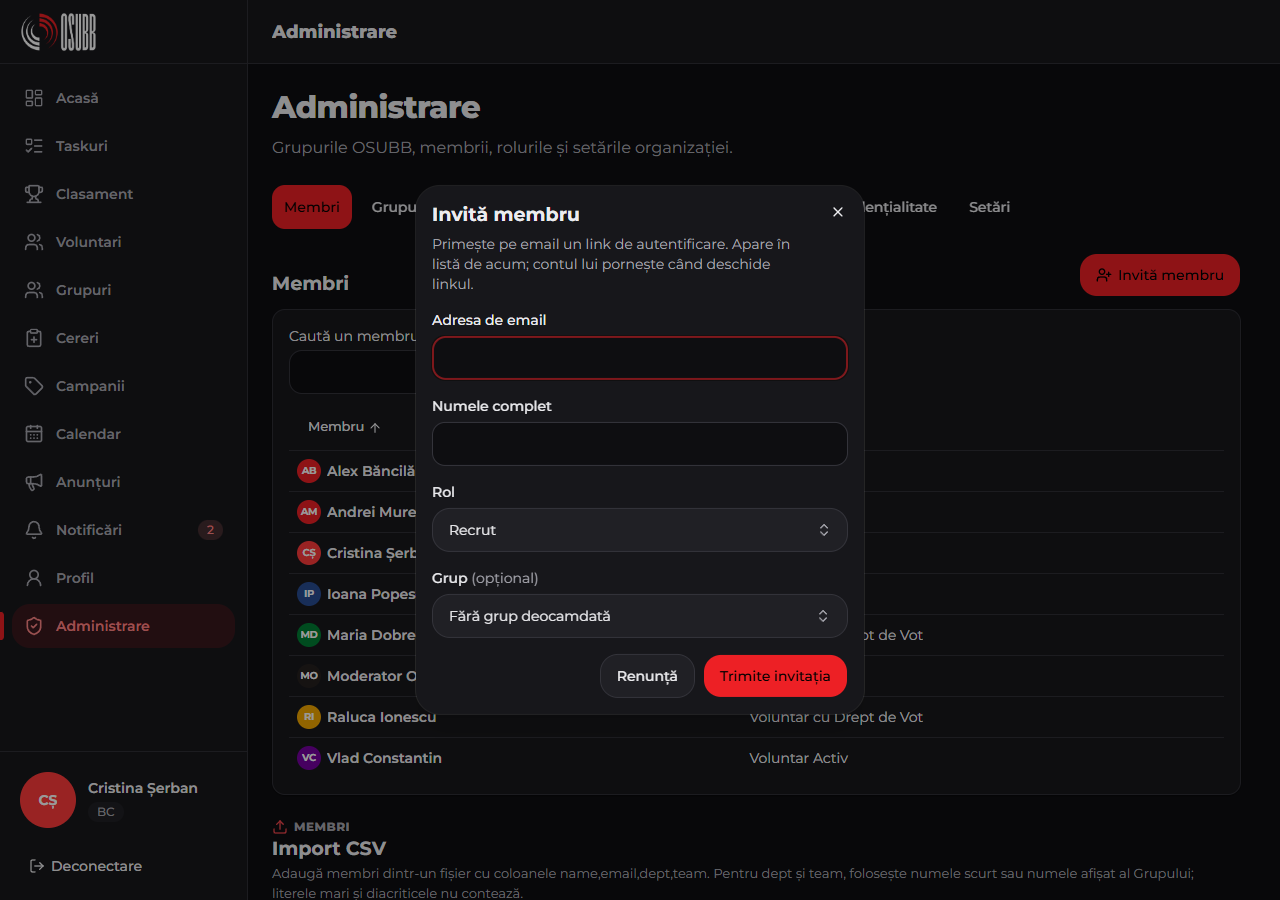
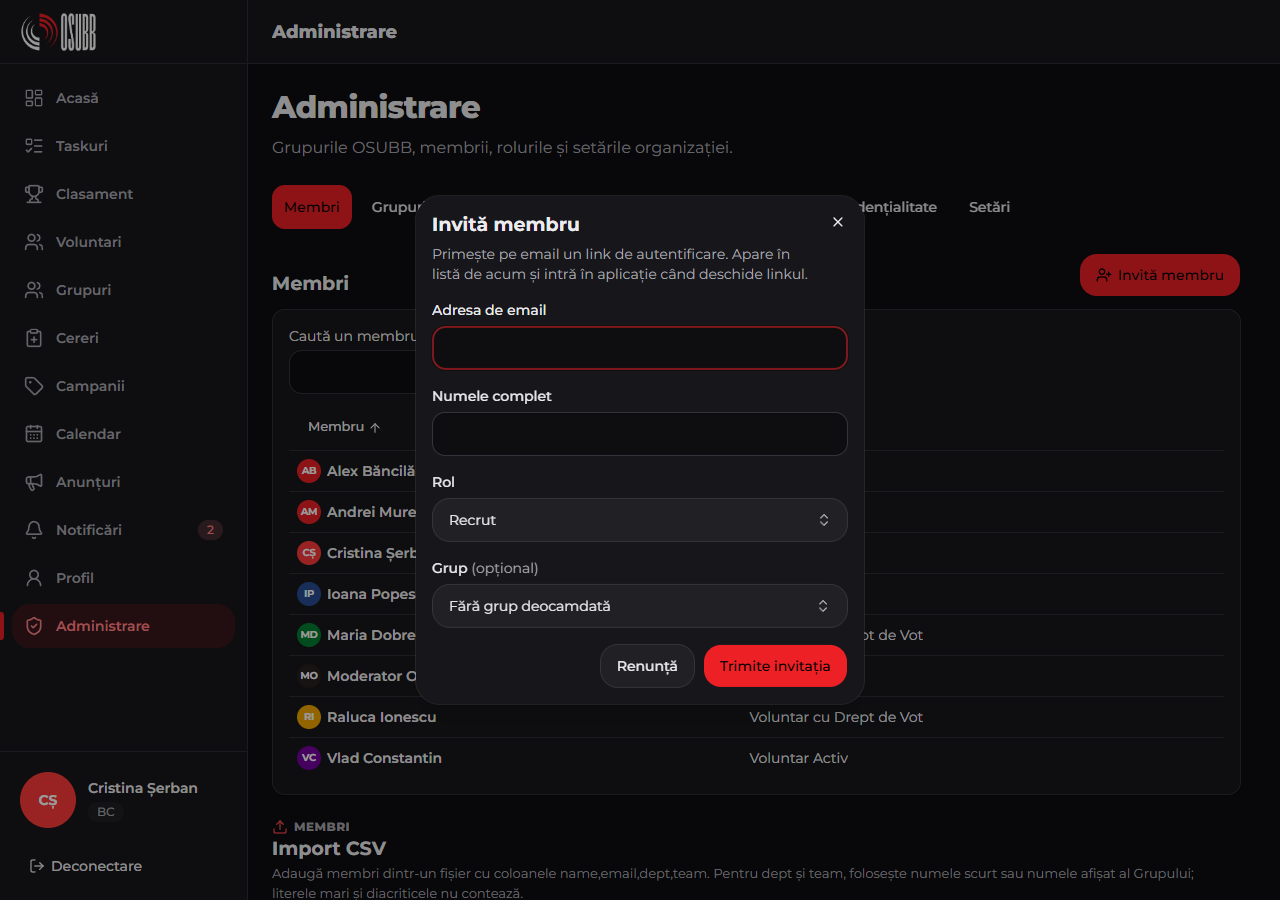
fix(administrare): Member, not account, in the invitation copy (#931)
CodeRabbit on #939: CONTEXT.md avoids "account"; the refusals, the dialog
description and the receipt say membru / aplicație. Screenshots retaken.

diff --git a/app/src/lib/command-reasons.ts b/app/src/lib/command-reasons.ts
@@ -466,7 +466,7 @@ const REASON_COPY = new Map<string, string>([
   ],
   [
     'invite_email_taken',
-    'Există deja un cont cu această adresă. Caută membrul în listă.',
+    'Există deja un membru cu această adresă. Caută-l în listă.',
   ],
   [
     'invite_group_unavailable',
@@ -474,7 +474,7 @@ const REASON_COPY = new Map<string, string>([
   ],
   [
     'invite_group_refused',
-    'Membrul nu poate fi adăugat în grupul ales: e arhivat, își adaugă membrii automat sau cere un rol mai mare. Nu s-a creat niciun cont; alege alt grup sau niciunul.',
+    'Membrul nu poate fi adăugat în grupul ales: e arhivat, își adaugă membrii automat sau cere un rol mai mare. Nu s-a adăugat niciun membru; alege alt grup sau niciunul.',
   ],
 
   /* ---- Role Evaluations, Promotion Thresholds and Candidates (#826, #827) ---- */

diff --git a/app/src/screens/administrare/AdminMembersTab.test.tsx b/app/src/screens/administrare/AdminMembersTab.test.tsx
@@ -238,7 +238,7 @@ it('confirms a sent invitation and marks the new Member in the list', async () =
   expect(screen.queryByText('Invitație trimisă')).toBeNull();
   await user.click(screen.getByRole('button', { name: 'Invită membru' }));
   expect(screen.getByRole('status')).toHaveTextContent(
-    'Invitația a fost trimisă la ana@osubb.ro. Membrul apare în listă cu „Invitație trimisă”; intră în cont când deschide linkul din email.',
+    'Invitația a fost trimisă la ana@osubb.ro. Membrul apare în listă cu „Invitație trimisă”; intră în aplicație când deschide linkul din email.',
   );
   const row = screen
     .getByRole('button', { name: /Ana Pop/ })

diff --git a/app/src/screens/administrare/AdminMembersTab.tsx b/app/src/screens/administrare/AdminMembersTab.tsx
@@ -163,7 +163,8 @@ function MembersPanel({ provision }: { provision: boolean }) {
           {/* No name here: a Member's name renders through MemberName, and
               the row's badge already points at the new Member. */}
           Invitația a fost trimisă la {latest.email}. Membrul apare în listă cu
-          „Invitație trimisă”; intră în cont când deschide linkul din email.
+          „Invitație trimisă”; intră în aplicație când deschide linkul din
+          email.
         </p>
       )}
       {members.isPending ? (

diff --git a/app/src/screens/administrare/InviteMemberDialog.tsx b/app/src/screens/administrare/InviteMemberDialog.tsx
@@ -140,8 +140,8 @@ export function InviteMemberDialog({
           <DialogHeader>
             <DialogTitle>Invită membru</DialogTitle>
             <DialogDescription>
-              Primește pe email un link de autentificare. Apare în listă de
-              acum; contul lui pornește când deschide linkul.
+              Primește pe email un link de autentificare. Apare în listă de acum
+              și intră în aplicație când deschide linkul.
             </DialogDescription>
           </DialogHeader>
 
